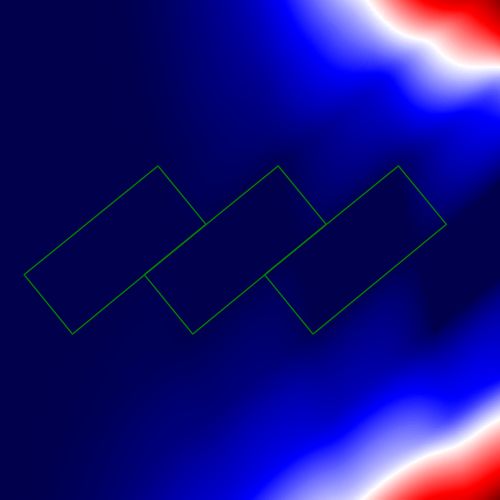
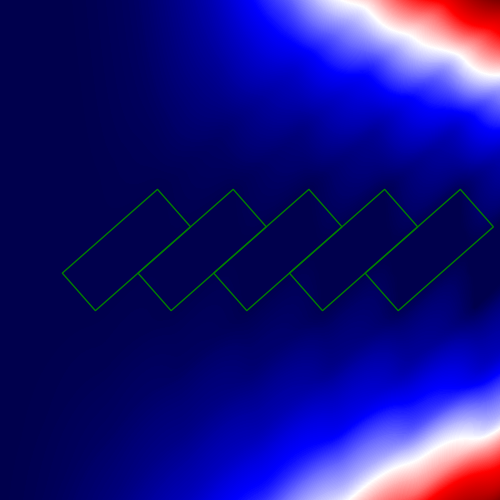
Fixed error associated with shifting of axes

diff --git a/simulation.py b/simulation.py
@@ -51,22 +51,32 @@ class QuantumDot:
         # The difference between each of the voltage values for the axis (the steps) didn't match
     # This mean't when trying to output a 500/500 square the rectangular bounding boxes were skewed.
 
-    V_SD_max = 0.25
-    V_G_min = 0.005
-    V_G_max = 0.505
+    V_SD_max = 0.2
+    V_G_min = 0.02
+    V_G_max = 0.42
     step_size = 0.005
 
     DPI = 100
     image_hw = 500 # pixel resolution of image (image_hw x image_hw)
-    V_SD_offset = uniform(0.0001, 0.001)
-    V_G_offset = uniform(0.00001, 0.001)
+    V_SD_offset = uniform(0.00001, 0.0001)
+    V_G_offset = uniform(0.00001, 0.0001)
+
+    # We need this otherwise the plot axes get shifted and there is whitespace
+    V_G_max -= V_G_offset
+    V_G_min -= V_G_offset
+    V_SD_max -= V_SD_offset
+
 
     V_SD = np.linspace(- V_SD_max, V_SD_max, 100) + V_SD_offset# random factor added so the diamonds
+    # V_SD = np.arange(- V_SD_max, V_SD_max, step_size) + V_SD_offset# random factor added so the diamonds
     # aren't always in the vertical centre.
-    V_G = np.arange(V_G_min, V_G_max, step_size) #+ V_G_offset
+
     V_G = np.linspace(V_G_min, V_G_max, 100) + V_G_offset
+    # V_G = np.arange(V_G_min, V_G_max, step_size) #+ V_G_offset
+
     # Generate 2D array to represent possible voltage combinations
     V_SD_grid, V_G_grid = np.meshgrid(V_SD, V_G)
+
 
     mu_S = - e * V_SD_grid  # source electrochemical potential energy
 
@@ -92,9 +102,9 @@ class QuantumDot:
         self.N_0 = 0 # I think making this non-zero offsets the bounding boxes used for object detection
         self.I_tot = np.zeros(self.V_SD_grid.shape)
         self.diamond_starts = np.zeros((1, len(self.N)))
-        self.C_S = 10E-19 * uniform(0.1, 1.5)  # Uniform used for some random variation
-        self.C_D = 10E-19 * uniform(0.2, 1.5)
-        self.C_G = 1E-18 * uniform(1, 8.5)
+        self.C_S = 10E-19 * uniform(0.1, 2)  # Uniform used for some random variation
+        self.C_D = 10E-19 * uniform(0.2, 2)
+        self.C_G = 1E-18 * uniform(1, 9)
         self.C = self.C_S + self.C_D + self.C_G
         self.E_C = (self.e ** 2) / self.C
 
@@ -426,7 +436,7 @@ class QuantumDot:
         ET.SubElement(size, "depth").text = "3"
 
         ET.SubElement(root, "segmented").text = "0"
-        # fig.savefig(path + "images/example_image_{0}.png".format(simulation_number), dpi=(self.DPI))  # Save training image
+        fig.savefig(path + "images/example_image_{0}.png".format(simulation_number), dpi=(self.DPI))  # Save training image
 
         for i in range(
                 len(self.N) - 1):  # need -1 as block would attempt to access index N otherwise and it doesn't exist
@@ -476,12 +486,12 @@ class QuantumDot:
             condition_2 = (C_y_scaled < (self.image_hw)) and (A_y_scaled > 0)
             if (condition_1 and condition_2):
 
-                # xy = np.array([[A_x,A_y],
-                #               [P_x,P_y],
-                #               [C_x,C_y],
-                #               [Q_x,Q_y]])
-                # rect = patches.Polygon(xy, linewidth=1, edgecolor='g', facecolor='none')
-                # ax.add_patch(rect)
+                xy = np.array([[A_x,A_y],
+                              [P_x,P_y],
+                              [C_x,C_y],
+                              [Q_x,Q_y]])
+                rect = patches.Polygon(xy, linewidth=1, edgecolor='g', facecolor='none')
+                ax.add_patch(rect)
 
 
                 object = ET.SubElement(root, "object")
